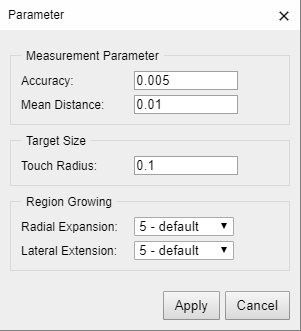
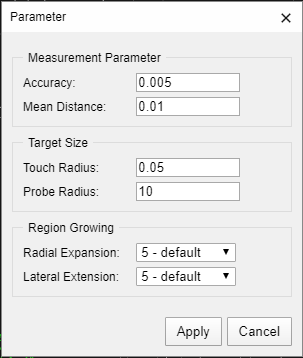
Add instructions about probe radius to manual
- Add images and instructions about probe radius to manual documents.
	modified:   Manual/img/FindSurfaceWeb-manual.png
	modified:   Manual/img/parameter_dialog.png
	new file:   Manual/img/probe-circles.png
	modified:   Manual/interface.html
	modified:   Manual/stepbystep.html

- Correct the link to the manual page.
	modified:   WebDemo-release/index.html

diff --git a/Manual/stepbystep.html b/Manual/stepbystep.html
@@ -102,6 +102,8 @@
 <td>Touch Radius</td>
 <td style="text-align:left">Radius of seed region (also, it means minimum target object size)</td>
 </tr>
+<td>Probe Radius</td>
+<td style="text-align:left">Point picking sensitivity (radius in pixels)</td>
 <tr>
 <td>Radial Expansion</td>
 <td style="text-align:left">Level of segmentation referenced to the direction of surface normal</td>
@@ -114,6 +116,9 @@
 </table>
 <blockquote>
 <p>Note: Parameter values are dependent on a measurement unit of point cloud data. For example, if a measurement unit is <em>meter</em> and measurement accuracy is less than <em>5 mm</em>, an appropriate value of <em>Accuracy</em> may be 0.005. If a measurement unit is <em>millimeter</em> and measurement accuracy is less than <em>3 mm</em>, an appropriate value of <em>Accuracy</em> may be 3.</p>
+</blockquote>
+<blockquote>
+<p>Note: Probe radius affects only point picking. For example, if the radius is set to 4, the topmost (z-order) point among points having 4 a distance of pixels from your mouse cursor.</p>
 </blockquote>
 </li>
 </ol>

diff --git a/WebDemo-release/index.html b/WebDemo-release/index.html
@@ -362,7 +362,7 @@
 				FindSurfaceWeb is a web demo, which demonstrates our FindSurface features through web browsers. 
 				FindSurfaceWeb presents how FindSurface operates and also suggests a simple &amp; typical example of point cloud analyzing tools by using FindSurface SDK.
 			</p>
-			<p style="margin: 20px 0;"><a href="Manual/overview.html" target="_blank;">Need Help?<br/>Find manual and YouTube Here. <img class="alpha8" style="vertical-align:middle;" src="img/ic_open_link.png" /></a></p>
+			<p style="margin: 20px 0;"><a href="../Manual/overview.html" target="_blank;">Need Help?<br/>Find manual and YouTube Here. <img class="alpha8" style="vertical-align:middle;" src="img/ic_open_link.png" /></a></p>
 			<p>(c) Copyright 2019 CurvSurf, Inc. All rights reserved.</p>
 			<p style="margin-top: 20px;">Try FindSurface SDK<br/><a href="https://developers.curvsurf.com" target="_blank;">https://developers.curvsurf.com</a></p>
 		</div>

diff --git a/Manual/interface.html b/Manual/interface.html
@@ -162,6 +162,11 @@
 <td style="text-align:center">Geometry inlier points</td>
 <td style="text-align:left">The points that are included by a geometry model.</td>
 </tr>
+<tr>
+<td style="text-align:center; background-color: #1D1D1D;"><img src="img/probe-circles.png" alt=""></td>
+<td style="text-align:center">Probe circle and touch radius</td>
+<td style="text-align:left">(Following mouse cursor) Visual cues for <a href="stepbystep.html#how-to-setup-findsurface-parameters" target="_blank">touch radius</a> (yellow) and <a href="stepbystep.html#how-to-setup-findsurface-parameters" target="_blank">probe radius</a> (blue). A point to be picked is marked with a red dot.</td>
+</tr>
 </tbody>
 </table>
 <h2 id="information-panel">Information Panel</h2>
